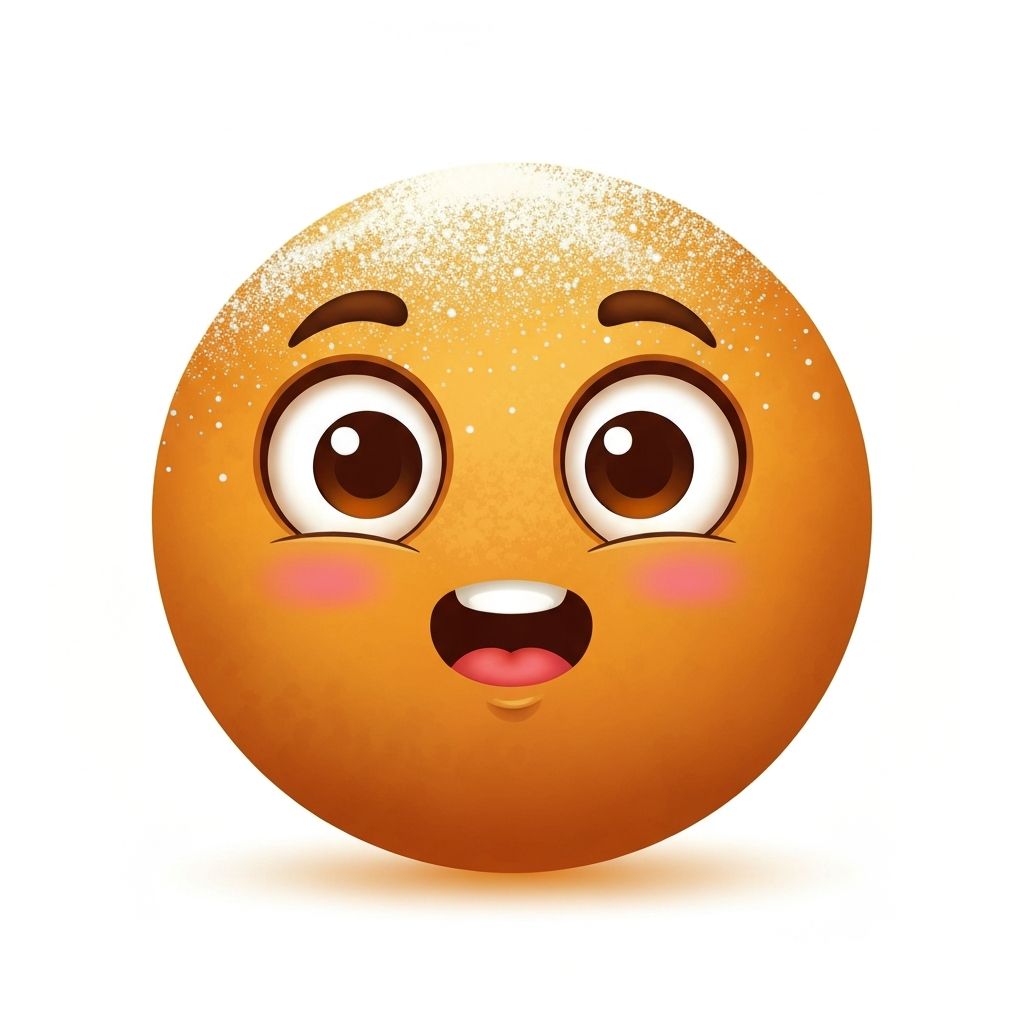
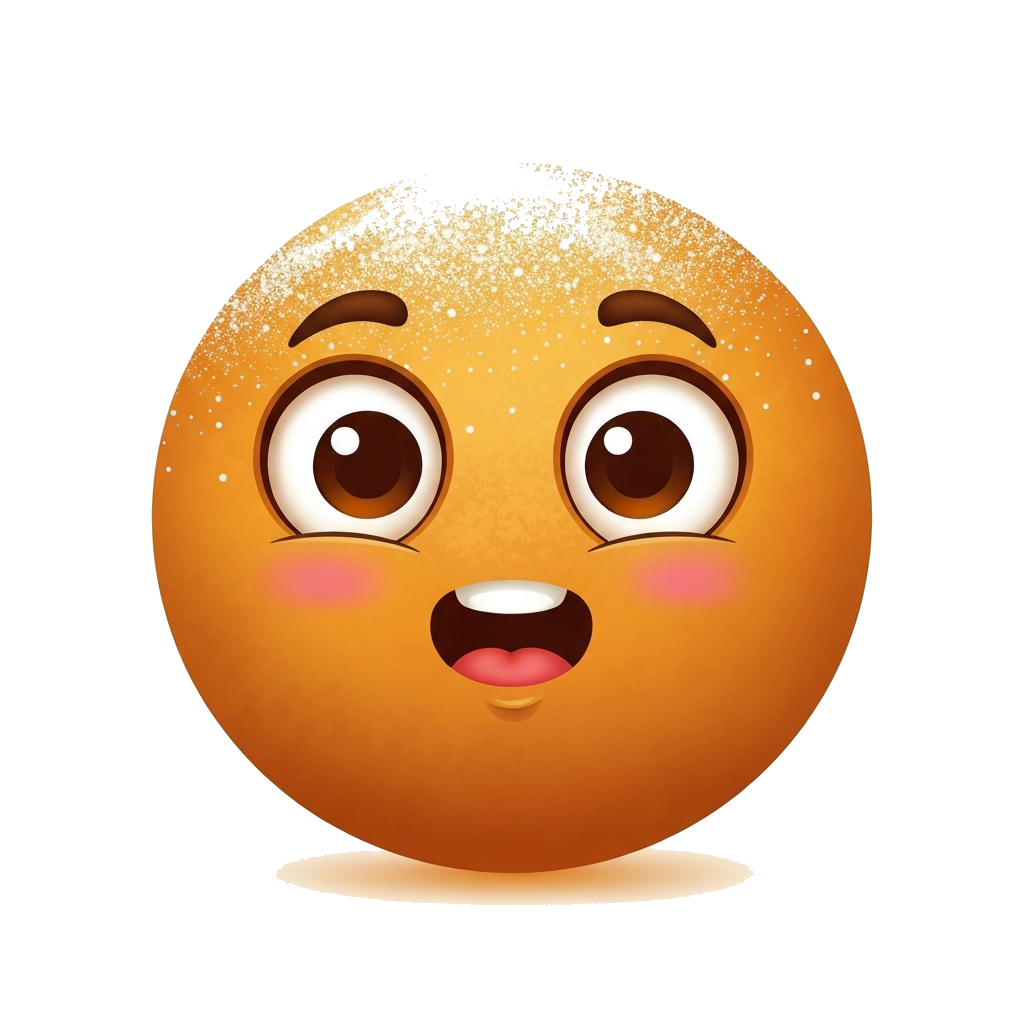
🐛 fix(design): transparent mascots + admin-always design-system route
- 24 treat-mascot PNGs had white backgrounds and no alpha channel, so they
  rendered as white boxes on coloured surfaces. Flood-filled white to
  transparent from all four corners (fuzz 12%), preserving interior whites
  (eyes/teeth/highlights) and the soft drop shadow. Stroop was already
  transparent.
- /styleguide (the design system) was dev-only (import.meta.env.DEV). It is
  now an admin route available in ALL envs via requireAdminClerkId(): a new
  ADMIN_CLERK_IDS worker-var allowlist (+ seed_ronan in dev). Added
  assertAdmin server fn + ADMIN_CLERK_IDS to WorkerEnv.

Changed region(s): [[0.3125, 0.8125, 0.7812, 0.9062], [0.2812, 0.1562, 0.625, 0.25], [0.2188, 0.8125, 0.375, 0.875]]

diff --git a/src/routes/styleguide.tsx b/src/routes/styleguide.tsx
@@ -1,10 +1,10 @@
 /**
- * /styleguide — branding showcase
+ * /styleguide — design system + branding showcase
  *
- * Dev-only route. Gated at the loader level via `import.meta.env.DEV`.
- * Vite statically replaces that with `false` in production builds, so
- * the redirect branch is dead-code-eliminated and the route becomes an
- * unreachable stub in the deployed worker.
+ * Admin-only route, available in ALL environments (incl. production).
+ * Gated at the loader level via `requireAdminClerkId()`: signed-out users
+ * bounce to /sign-in, non-admins bounce to /. Admins are the dev/seed user
+ * (in Vite dev) plus any Clerk id in the `ADMIN_CLERK_IDS` worker var.
  *
  * Shows:
  *   1. The Dutch-treat mascot family with idle / happy / surprised
@@ -15,8 +15,9 @@
  *
  * Generated by GH issue #186.
  */
-import { createFileRoute, redirect } from "@tanstack/react-router";
+import { createFileRoute } from "@tanstack/react-router";
 import { useState } from "react";
+import { assertAdmin } from "../lib/server/admin";
 
 // ---------------------------------------------------------------------------
 // Data
@@ -165,13 +166,7 @@ const PALETTES = [
 // ---------------------------------------------------------------------------
 
 export const Route = createFileRoute("/styleguide")({
-  loader: async () => {
-    // Dead-code-eliminated in prod builds — the redirect becomes unreachable.
-    if (!import.meta.env.DEV) {
-      throw redirect({ to: "/" });
-    }
-    return null;
-  },
+  loader: async () => await assertAdmin(),
   component: StyleguidePage,
 });
 

diff --git a/src/lib/server/auth-helper.ts b/src/lib/server/auth-helper.ts
@@ -90,3 +90,35 @@ export async function requireUserClerkId(): Promise<string> {
   if (!id) throw redirect({ to: "/sign-in" });
   return id;
 }
+
+/**
+ * Resolve the current user's Clerk id and assert they are an admin, or throw
+ * a redirect. Used to gate admin-only surfaces like `/styleguide` (the design
+ * system), which must be reachable in production by staff but never by regular
+ * users.
+ *
+ * Admin set: the comma-separated `ADMIN_CLERK_IDS` worker var/secret, plus the
+ * dev/seed user (`seed_ronan`) which is always treated as admin in Vite dev so
+ * `pnpm dev:bypass-auth` can open the design system without extra config. Set
+ * `ADMIN_CLERK_IDS` in wrangler vars to your production Clerk user id(s).
+ *
+ * Not authenticated → redirect to `/sign-in`. Authenticated but not an admin
+ * → redirect to `/` (no leak that the route exists beyond a bounce).
+ */
+export async function requireAdminClerkId(): Promise<string> {
+  const id = await requireUserClerkId();
+  const ctx = getWorkerContext();
+  const raw =
+    ctx?.env.ADMIN_CLERK_IDS ??
+    (typeof process !== "undefined" ? process.env?.ADMIN_CLERK_IDS : undefined) ??
+    "";
+  const allow = new Set(
+    raw
+      .split(",")
+      .map((s) => s.trim())
+      .filter(Boolean),
+  );
+  if (import.meta.env.DEV) allow.add(DEV_BYPASS_CLERK_ID);
+  if (!allow.has(id)) throw redirect({ to: "/" });
+  return id;
+}

diff --git a/src/lib/server/admin.ts b/src/lib/server/admin.ts
@@ -1,0 +1,15 @@
+/**
+ * Admin gating server fn.
+ *
+ * `assertAdmin` is a GET server fn that throws a redirect unless the caller is
+ * an admin (see `requireAdminClerkId`). Used by admin-only route loaders such
+ * as `/styleguide` (the design system), which must be reachable in production
+ * by staff but bounce everyone else.
+ */
+import { createServerFn } from "@tanstack/react-start";
+import { requireAdminClerkId } from "./auth-helper";
+
+export const assertAdmin = createServerFn({ method: "GET" }).handler(async () => {
+  await requireAdminClerkId();
+  return null;
+});

diff --git a/src/lib/server/worker-context.ts b/src/lib/server/worker-context.ts
@@ -78,6 +78,13 @@ export type WorkerEnv = {
    * calling Clerk. Dead-code-eliminated in production builds.
    */
   E2E_BYPASS_TOKEN?: string;
+  /**
+   * Comma-separated Clerk user ids granted admin access to admin-only routes
+   * (e.g. `/styleguide`, the design system). Safe to keep in `wrangler.jsonc`
+   * vars. The dev/seed user `seed_ronan` is always admin in Vite dev. See
+   * `requireAdminClerkId()` in `src/lib/server/auth-helper.ts`.
+   */
+  ADMIN_CLERK_IDS?: string;
 };
 
 const requestStore = new AsyncLocalStorage<{ env: WorkerEnv; ctx: ExecutionContext }>();

diff --git a/.nightshift/retros/2026-05-22-ns-20260521T213503.md b/.nightshift/retros/2026-05-22-ns-20260521T213503.md
@@ -1,0 +1,71 @@
+# Night-shift retro — 2026-05-22 run ns-20260521T213503
+
+## Run summary
+- Dispatcher: night-shift
+- Mode: auto-slice / drain
+- Repo: lekkertaal
+- Branch: main
+- Started: 2026-05-21T21:35:03Z
+- Ended: 2026-05-21T23:20:00Z
+- Duration: ~105m
+- JSON sibling: `.nightshift/retros/2026-05-22-ns-20260521T213503.json`
+
+## Stats
+| Metric | Value |
+|---|---|
+| Issues picked | 17 |
+| PRs merged | 16 |
+| PRs blocked | 1 (#219) |
+| Issues deferred | 1 (#221) |
+| Waves | 6 (cap) |
+| Workers | 3 |
+| Follow-ups opened | 16 |
+
+## Headline
+The full 14-screen Claude Design redesign shipped overnight. Worker #204 built the shared app-shell + token foundation (PR #205) and sliced the rest into 13 follow-ups; waves 2–6 drained every screen plus 3 data follow-ups. Test suite 461 → 487.
+
+## Per-slice breakdown
+| Issue | Outcome | PR |
+|---|---|---|
+| #204 foundation | merged-partial (→13 followups) | #205 |
+| #208 unit detail | merged | #220 |
+| #206 onboarding | merged | #222 |
+| #207 path | merged | #223 |
+| #209 lesson shell | merged | #225 |
+| #216 roleplay | merged | #226 |
+| #217 social | merged | #227 |
+| #212 word-order | merged | #228 |
+| #210 mc | merged | #229 |
+| #211 input | merged | #230 |
+| #213 match-pairs | merged | #231 |
+| #215 lesson-complete | merged | #232 |
+| #214 image/speak | merged | #233 |
+| #234 result params | merged | #235 |
+| #218 shop/profile/settings | merged | #236 |
+| #224 path loader | merged | #237 |
+| #164 vocab images | **blocked** | #219 (open) |
+
+## Failure modes hit
+- **other / process** — workers exited at "CI armed, waiting on monitor" without merging (auto-merge disabled repo-wide); orchestrator REST-merged #220, #222, #232, #236.
+- **context-drift** — Claude Design bundle URL fetchable for #204 but 404 for every later worker; each re-discovered before falling back to the #203 spec.
+- **external blocker** — #164 R2 write blocked: no Cloudflare token with R2-Edit scope.
+
+## Action items
+- [ ] **[SYSTEM][ronan-skills][high]** Workers must block until merge confirmed when auto-merge is disabled — filed ronan-skills#25 (proof: PR#220,#222,#232,#236)
+- [ ] **[SYSTEM][ronan-skills][med]** Attach extracted Claude Design spec to redesign slices so workers don't re-hit the bundle 404 — filed ronan-skills#26 (proof: #207 vs #204)
+- [ ] **[UNCLEAR][lekkertaal][low]** `Closes #N` didn't auto-close #218 on squash — revisit if it recurs (proof: #218)
+
+## Carry to next night
+- #221 FK-link vocab to units (deferred — DB-schema change, safer attended)
+- #164 vocab images — needs R2-Edit token (runbook in issue; PR #219 ready)
+- #204 umbrella — all 13 children merged, safe to close
+- Phase-2/3 PRDs untouched: #194 FSRS, #195 lesson-arc, #196 gamification v2, #197 grammar tips, #198 rebrand
+
+## Cross-repo issues opened
+- ronan-skills#25 — [from-retro] worker early-exit before merge
+- ronan-skills#26 — [from-retro] attach design spec to redesign slices
+
+## Links
+- Nightsheet: lekkertaal#238
+- Completion report: `.completion-reports/2026-05-21T23-17-night-shift-ns-20260521.html`
+- Briefing: `.nightshift/briefings/2026-05-22.html`
